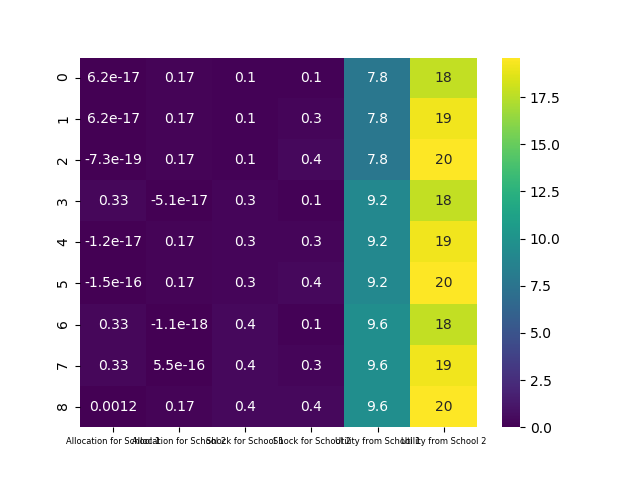
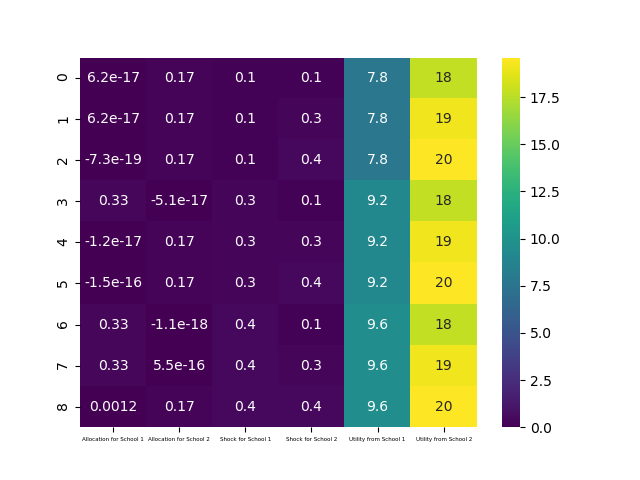
New representation

Changed region(s): [[0.0938, 0.9062, 0.75, 0.9375]]

diff --git a/solver/data_presentation.py b/solver/data_presentation.py
@@ -31,7 +31,7 @@ def con_df(distributions,types,utilities):
 def write_table(df):
     fig = plt.figure(facecolor='w', edgecolor='k')
     sns.heatmap(df,annot=True, cmap='viridis',square=False)
-    plt.xticks(fontsize = 6,rotation=0)
+    plt.xticks(fontsize = 4,rotation=0)
     plt.savefig('assignment_data/DataFrame.png')
 
 
